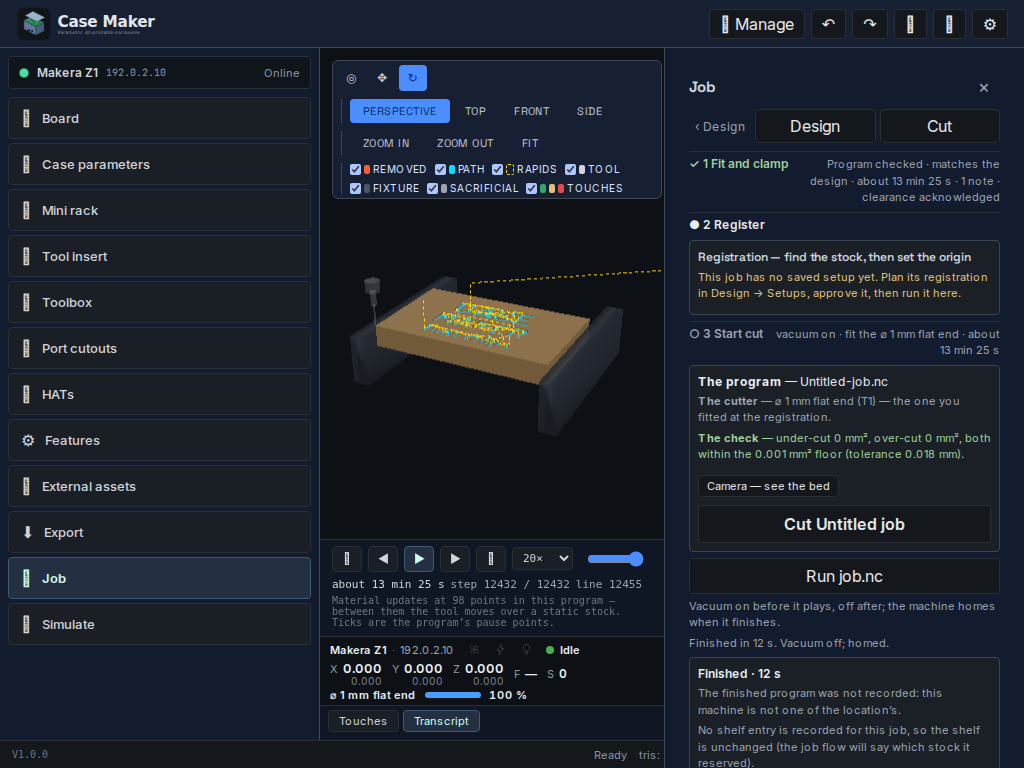
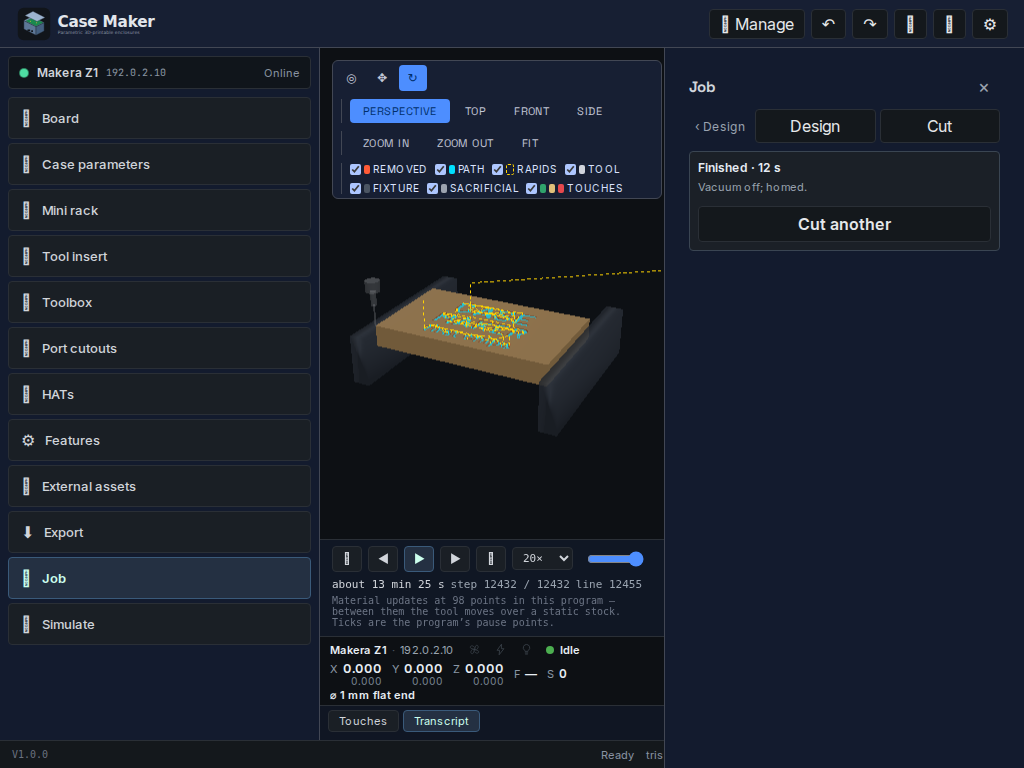
feat(cut): a finished run is the Done card, and the strip reads the machine (#819)
Seen in #816's done.png and filed as the Cut side of #791. After a program finished:

- The strip kept drawing the finished program's `P:100` bar (with its Stop while the last line
  still read Run) under a card that said Finished. An idle machine at 100 % now shows neither:
  the bar and the remaining time are about a program IN PROGRESS, and they stay for an Idle
  below 100 % (the 3–4 s `Idle` at `M05`). The spec waits for the machine's own next answer
  (Idle) before reading the strip.
- Step 3 still offered Cut and Run beside the card, and step 2 its "no saved setup" note. A run
  that ENDED (finished or stopped) now owns the Cut screen: the steps fold away and the card is
  the only thing there. A refused run (nothing was cut) keeps the steps — its card says why and
  the press must stay. The machine holds ONE entry, so a run whose context names ANOTHER job
  does not take this job's screen.
- The card is one line plus one action: its title (what happened and how long) and
  `describeEndLine`'s machine end state ("Vacuum off; homed."), never the run end's bookkeeping
  (the finished-program record, the shelf, the cutter runtime). The offcut question still
  appears only when one is offered, and Start/vacuum disappear once the entry has ended (a new
  upload resets it, so they return for the next program).

runStates.spec asserts the finished screen: strip Idle, no Stop, no bar, no Cut/Run button, the
[…]

diff --git a/casemaker-app/src/components/panels/EngraveMachineRun.tsx b/casemaker-app/src/components/panels/EngraveMachineRun.tsx
@@ -20,7 +20,7 @@
 
 import { useEffect, useRef, useState, type CSSProperties, type JSX } from 'react';
 import { attachConsole } from '@/platform/machineConsole';
-import { describeRun, programOwnsVacuum, runSettings } from '@/platform/machineRun';
+import { describeEndLine, programOwnsVacuum, runSettings } from '@/platform/machineRun';
 import { machineKey, useMachineRunStore } from '@/store/machineRunStore';
 import { runKey, useRunConfirmStore } from '@/store/runConfirmStore';
 import { useShopDefaultsStore } from '@/store/shopDefaultsStore';
@@ -147,7 +147,10 @@ export function EngraveMachineRun({ target, onProgramLine, controlled = false }:
                   : 'This program runs without the vacuum; the machine homes when it finishes.';
   return (
     <div data-testid="engrave-run" data-file={entry.filename}>
-      {!controlled && (
+      {/* #819 — once a run has ENDED there is nothing left to start from here: the card's action is
+          the next step, and a second Start beside it would be a second primary. A fresh upload
+          resets the entry (end null), so the button returns for the next program. */}
+      {!controlled && entry.end === null && (
         <button
           type="button"
           data-testid="engrave-run-start"
@@ -161,7 +164,7 @@ export function EngraveMachineRun({ target, onProgramLine, controlled = false }:
           {running ? 'Running…' : `Run ${entry.filename}`}
         </button>
       )}
-      {!controlled && (
+      {!controlled && entry.end === null && (
         <p style={MUTED} data-testid="engrave-run-vacuum">
           {vacuumLine}
         </p>
@@ -218,11 +221,6 @@ export function EngraveMachineRun({ target, onProgramLine, controlled = false }:
         </>
       )}
 
-      {outcome !== null && !running && (
-        <p style={MUTED} data-testid="engrave-run-outcome" data-state={outcome.kind}>
-          {describeRun(outcome)}
-        </p>
-      )}
       {!running && outcome?.kind === 'aborted' && outcome.stop.kind === 'stopped' && (
         <button type="button" data-testid="engrave-run-home" onClick={() => void home()}>
           Home ($H)
@@ -244,9 +242,11 @@ export function EngraveMachineRun({ target, onProgramLine, controlled = false }:
           </button>
         </div>
       )}
-      {/* #414 / #806 — THE DONE CARD. One card when the run ends: what happened and how long
-          ("Finished · 2 min 14 s"), the end's own lines (the finished-program record, the shelf,
-          the runtime), the offcut question only when there is one, and the ONE primary action. */}
+      {/* #414 / #806 / #819 — THE DONE CARD. One card when the run ends: what happened and how
+          long ("Finished · 2 min 14 s"), ONE line for the machine's end state, the offcut
+          question only when there is one, and the ONE primary action. The run end's bookkeeping
+          (the finished-program record, the shelf, the cutter runtime) stays in the records, not
+          in this card. */}
       {!running && entry.end !== null && (
         <div data-testid="engrave-run-end" data-kind={entry.end.kind} style={BOX}>
           <p
@@ -256,11 +256,12 @@ export function EngraveMachineRun({ target, onProgramLine, controlled = false }:
             {entry.end.kind === 'finished' ? 'Finished' : entry.end.kind === 'stopped' ? 'Stopped' : 'Nothing was cut'}
             {entry.end.kind === 'finished' && elapsedS !== null ? ` · ${formatDuration(elapsedS)}` : ''}
           </p>
-          {entry.end.lines.map((l, i) => (
-            <p key={i} style={MUTED}>
-              {l}
+          {/* #819 — ONE LINE: the machine's end state, never the run end's bookkeeping. */}
+          {outcome !== null && (
+            <p style={MUTED} data-testid="engrave-run-outcome" data-state={outcome.kind}>
+              {describeEndLine(outcome)}
             </p>
-          ))}
+          )}
           {entry.end.offcut?.state === 'asked' && (
             <div data-testid="engrave-run-offcut">
               <p style={MUTED}>{entry.end.offcut.text}</p>

diff --git a/casemaker-app/tests/unit/cutSurface.spec.tsx b/casemaker-app/tests/unit/cutSurface.spec.tsx
@@ -26,7 +26,7 @@ import { frozenReleaseSources } from '@/engine/cnc/engrave/release';
 import type { VerifyReport } from '@/engine/cnc/verify';
 import type { EngraveGenerated, EngraveProgram } from '@/workers/sim/engraveGenerate';
 import { ROTARY_UNMEASURED_REFUSAL } from '@/store/engraveRunGate';
-import { resetMachineRunStore } from '@/store/machineRunStore';
+import { machineKey, resetMachineRunStore, useMachineRunStore } from '@/store/machineRunStore';
 import { resetEngraveReleaseStore, useEngraveReleaseStore } from '@/store/engraveReleaseStore';
 import { resetEngravePackageStore, useEngravePackageStore } from '@/store/engravePackageStore';
 import { resetEngraveRegistrationStore, useEngraveRegistrationStore } from '@/store/engraveRegistrationStore';
@@ -1103,5 +1103,48 @@ describe('#656 from the cutter prompt to the cut', () => {
     expect(screen.queryByTestId('engrave-cut-confirm')).toBeNull();
     expect((screen.getByTestId('engrave-cut-expert') as HTMLDetailsElement).open).toBe(true);
     expect(screen.getByTestId('engrave-cut-run')).toBeTruthy();
+  });
+});
+
+// #819 — THE ENDED RUN OWNS THE SCREEN, AND ONLY WHEN IT IS THIS JOB'S.
+describe('#819 the finished screen', () => {
+  it('a finished run gives the Cut screen to its Done card — one line and one action — and a foreign run does not', () => {
+    const job = plannedJob();
+    const pkg = frozen(job, [P1]);
+    const ended = (jobId: string | undefined) => ({
+      running: false,
+      filename: 'job.nc',
+      programHash: P1.programHash,
+      progress: null,
+      lines: [],
+      outcome: { kind: 'finished', last: { line: 10, percent: 100, elapsedS: 12 }, homed: true, vacuumOff: true },
+      stopAsked: false,
+      paused: false,
+      toolWaiting: null,
+      context: jobId === undefined ? { nc: NC1 } : { nc: NC1, jobId },
+      end: { kind: 'finished', lines: ['bookkeeping the card must not draw'], offcut: null, stockQuestion: null },
+      pendingStock: null,
+    });
+
+    // This job's run: the steps give way to the card and its one action.
+    useMachineRunStore.setState({ runs: { [machineKey(TARGET)]: ended(job.id) } as never });
+    draw({ job, report: reportOf(), pkg, generated: generated([P1]), canDrive: true });
+    expect(screen.queryByTestId('engrave-cut-step-1')).toBeNull();
+    expect(screen.queryByTestId('engrave-cut-go')).toBeNull();
+    expect(screen.getByTestId('engrave-run-end').dataset.kind).toBe('finished');
+    expect(screen.getByTestId('engrave-run-done-title').textContent).toMatch(/^Finished · /);
+    expect(screen.getByTestId('engrave-run-outcome').textContent).toBe('Vacuum off; homed.');
+    expect(screen.queryByText('bookkeeping the card must not draw')).toBeNull();
+    expect(screen.queryByTestId('engrave-run-start')).toBeNull();
+    expect(screen.getByTestId('engrave-run-another')).toBeTruthy();
+
+    // Another job's run on the same machine: this job's steps stay — with the press step 3 owns —
+    // so the other job's end cannot take this screen. (The machine's own run panel still draws that
+    // entry inside step 3, as it always has: the entry belongs to the machine, not to the job.)
+    cleanup();
+    useMachineRunStore.setState({ runs: { [machineKey(TARGET)]: ended('another-job') } as never });
+    draw({ job, report: reportOf(), pkg, generated: generated([P1]), canDrive: true });
+    expect(screen.getByTestId('engrave-cut-step-1')).toBeTruthy();
+    expect(screen.getByTestId('engrave-cut-go')).toBeTruthy();
   });
 });

diff --git a/casemaker-app/src/components/panels/EngraveCutSurface.tsx b/casemaker-app/src/components/panels/EngraveCutSurface.tsx
@@ -54,7 +54,7 @@ import { jobTool, toSetup } from '@/engine/cnc/engrave/jobSetup';
 import { flatEndMill } from '@/engine/cnc/tool';
 import { useSettingsStore } from '@/store/settingsStore';
 import { finishedProgramsFor, useLocationStore } from '@/store/locationStore';
-import type { RunContext } from '@/store/machineRunStore';
+import { machineKey, useMachineRunStore, type RunContext } from '@/store/machineRunStore';
 import { useEngravePackageStore } from '@/store/engravePackageStore';
 import { useEngraveRegistrationStore, useFirstRegistration, useSurfaceSpread } from '@/store/engraveRegistrationStore';
 import { useEngraveRunStore } from '@/store/engraveRunStore';
@@ -288,6 +288,22 @@ export function EngraveCutSurface({
    * rather than pretend a fixed clearance checked a top nobody measured.
    */
   const firstRegistration = useFirstRegistration(job.id, target);
+  // #819 — THE RUN'S END IS THE SCREEN. When this machine's run has ended (finished or stopped),
+  // the three steps were about getting a program onto the machine, and that is done: the card
+  // owns the state, and the steps' two run buttons and the register card fold away with them.
+  // A refused run (`nothing` was cut) keeps the steps — its card says why, and the operator needs
+  // the press to try again.
+  const machineRun = useMachineRunStore((s) => (target === null ? null : s.runs[machineKey(target)] ?? null));
+  // The machine holds ONE entry, so a run that belongs to ANOTHER job (its context names that job)
+  // must not take this job's screen: job B's Cut would otherwise open on job A's Done card. An entry
+  // with no job id was prepared outside the job flow (an upload with no job, the e2e seam), and has
+  // no other job to belong to.
+  const runOver =
+    machineRun !== null &&
+    !machineRun.running &&
+    machineRun.end !== null &&
+    machineRun.end.kind !== 'nothing' &&
+    (machineRun.context?.jobId === undefined || machineRun.context.jobId === job.id);
   // #689 — the clearance acknowledgement lives in step 1 now, not under Generate. It is the run
   // gate's own flag; the warning codes that need it come from the Generate (re-post included) and
   // the sweep, so both are subscribed to and the step re-renders when they arrive.
@@ -742,6 +758,15 @@ export function EngraveCutSurface({
       onDone: () => void useLocationStore.getState().refresh(),
     });
   };
+
+  // #819 — the ended run's screen: the Done card and its one action, nothing else.
+  if (runOver && target !== null) {
+    return (
+      <div data-testid="engrave-cut-surface">
+        <EngraveMachineRun target={target} onProgramLine={onProgramLine} />
+      </div>
+    );
+  }
 
   return (
     <div data-testid="engrave-cut-surface">

diff --git a/casemaker-app/tests/e2e/runStates.spec.ts b/casemaker-app/tests/e2e/runStates.spec.ts
@@ -2,7 +2,9 @@
 // `/api/v1/machine/tcp/*` in the page (tests/e2e/fixtures/fakeConsole.ts), so the run panel plays a
 // real program and reaches running, paused and finished. REAL screenshots are committed under
 // `docs/bench/img/2026-10-31-run-states/` — the record #801 (Pause/Resume/Stop and the one
-// caption, no panel progress line) and #806 (the Done card) asked for.
+// caption, no panel progress line), #806 (the Done card) and #819 (THE FINISHED SCREEN: the strip
+// reads the machine, the steps and both run buttons are gone, and the card is one line plus one
+// action) asked for.
 //
 // The program is prepared through the test surface (`machineRunPrepare`, the store seam the
 // upload's last step uses) rather than uploaded: the fake answers the console, and the upload's
@@ -125,6 +127,21 @@ test('#801/#806 — the run panel running, paused, and its Done card, on a fake 
   const done = runPanel.getByTestId('engrave-run-end');
   await expect(done).toHaveAttribute('data-kind', 'finished', { timeout: 60_000 });
   await expect(runPanel.getByTestId('engrave-run-done-title')).toContainText(/^Finished · /);
+
+  // #819 — THE FINISHED SCREEN. The strip speaks for the MACHINE: it settles on the fake's own last
+  // answer (Idle), with no Stop and no finished program's bar. Both run buttons and the three steps
+  // are gone, so step 2's "no saved setup" cannot sit under a Done card. The card is its title, ONE
+  // line (the machine's end state) and ONE action.
+  const stripState = page.getByTestId('machine-status-state');
+  await expect.poll(() => stripState.getAttribute('data-state'), { timeout: 30_000 }).toBe('Idle');
+  await expect(page.getByTestId('machine-status-stop')).toHaveCount(0);
+  await expect(page.getByTestId('machine-status-progress')).toHaveCount(0);
+  await expect(page.getByTestId('engrave-cut-go')).toHaveCount(0);
+  await expect(page.getByTestId('engrave-run-start')).toHaveCount(0);
+  await expect(page.getByTestId('engrave-cut-step-1')).toHaveCount(0);
+  await expect(runPanel.getByTestId('engrave-run-outcome')).toHaveText('Vacuum off; homed.');
+  await expect(done.locator('p')).toHaveCount(2); // the title and the one line
+  await expect(done.locator('button')).toHaveCount(1); // Cut another
   await expect(runPanel.getByTestId('engrave-run-another')).toBeVisible();
   await shoot(page, 'done.png');
 

diff --git a/casemaker-app/tests/unit/engraveMachineRun.spec.tsx b/casemaker-app/tests/unit/engraveMachineRun.spec.tsx
@@ -158,11 +158,19 @@ describe('#423 the run panel, in the real tree', () => {
     // every finish; it is the file (or its absence) that switches the vacuum.
     expect(sent).toEqual(['?', 'play /sd/gcodes/job.nc', '?', '$H']);
     expect(screen.queryByTestId('engrave-run-home')).toBeNull();
-    // #806 — THE DONE CARD: the run and its clock in one title, the end's own lines under it,
-    // the offcut question only when there is one, and ONE primary action.
+    // #806 / #819 — THE DONE CARD: the run and its clock in one title, ONE line for the machine's
+    // end state, the offcut question only when there is one, and ONE primary action. The run end's
+    // bookkeeping and a second Start are not in it.
     expect(screen.getByTestId('engrave-run-end').dataset.kind).toBe('finished');
     expect(screen.getByTestId('engrave-run-done-title').textContent).toMatch(/^Finished( · .+)?$/);
     expect(screen.queryByTestId('engrave-run-offcut')).toBeNull();
+    const card = screen.getByTestId('engrave-run-end');
+    expect(card.querySelectorAll('p')).toHaveLength(2); // the title and the one line
+    expect(card.querySelectorAll('button')).toHaveLength(1); // Cut another
+    expect(screen.getByTestId('engrave-run-outcome').textContent).toContain('vacuum');
+    expect(screen.getByTestId('engrave-run-outcome').textContent).toMatch(/homed\.$/);
+    expect(screen.queryByTestId('engrave-run-start')).toBeNull();
+    expect(screen.queryByTestId('engrave-run-vacuum')).toBeNull();
     fireEvent.click(screen.getByTestId('engrave-run-another'));
     expect(useCncModeStore.getState().mode).toBe('design');
     // #797 — the at-machine statement is Cut step 1's ONE statement now; this panel asks nothing

diff --git a/casemaker-app/tests/unit/machineStatusStrip.spec.tsx b/casemaker-app/tests/unit/machineStatusStrip.spec.tsx
@@ -364,6 +364,23 @@ describe('#647 the DRO — vacuum and progress', () => {
     render(<MachineStatusStrip />);
     expect(screen.queryByTestId('machine-status-progress')).toBeNull();
   });
+
+  // #819 — a finished program leaves P:100 on the machine's last line; the strip must not keep
+  // drawing the bar and its Stop under a Done card that says Finished.
+  it('drops the bar and the Stop when an idle machine still carries a finished P:100', () => {
+    remember('<Idle|MPos:0,0,0|WPos:0,0,0|P:2540,100,756>');
+    render(<MachineStatusStrip />);
+    expect(screen.getByTestId('machine-status-state').getAttribute('data-state')).toBe('Idle');
+    expect(screen.queryByTestId('machine-status-progress')).toBeNull();
+    expect(screen.queryByTestId('machine-status-stop')).toBeNull();
+  });
+
+  it('offers the bar and the Stop while the program runs', () => {
+    remember('<Run|MPos:-10,-10,-3|WPos:0,0,0|P:12,40,75>');
+    render(<MachineStatusStrip />);
+    expect(screen.getByTestId('machine-status-progress')).toBeTruthy();
+    expect(screen.getByTestId('machine-status-stop')).toBeTruthy();
+  });
 });
 
 describe('#647 the DRO — the layout contract', () => {

diff --git a/casemaker-app/src/platform/machineRun.ts b/casemaker-app/src/platform/machineRun.ts
@@ -540,6 +540,23 @@ export function describeRun(o: RunOutcome): string {
   }
 }
 
+/**
+ * #819 — THE DONE CARD'S ONE LINE.
+ *
+ * The card's title already states what happened and how long ("Finished · 12 s"), so a finish's
+ * line carries only the machine's END STATE — the vacuum and home sentence `describeRun` appends
+ * to it. Every other outcome is one sentence already (there is no clock to repeat), so the card
+ * shows it whole. The bookkeeping the run end records (the finished-program record, the shelf,
+ * the cutter runtime) is NOT drawn here: #806's card is what happened, its clock and the one next
+ * action, and those facts live in the run's own records.
+ */
+export function describeEndLine(o: RunOutcome): string {
+  if (o.kind === 'finished') {
+    return `${finishedVacuum(o)}${o.homed ? 'homed' : 'the home ($H) was not confirmed — home it'}.`;
+  }
+  return describeRun(o);
+}
+
 /** The run tunables from the shop's defaults (`run.*`) — the labelled fallbacks only with no service. */
 export function runSettings(defaults: ShopDefaults | null): RunSettings {
   return {

diff --git a/casemaker-app/src/components/viewport/MachineStatusStrip.tsx b/casemaker-app/src/components/viewport/MachineStatusStrip.tsx
@@ -402,7 +402,12 @@ export function MachineStatusStrip(): JSX.Element | null {
   // the firmware): shown raw, and only on a machine that actually sends it. The Z1 has no ATC.
   const atcState = live ? line?.atcState ?? null : null;
 
-  const percent = progress?.percent ?? null;
+  // #819 — a finished program leaves its last `P:` on the machine's line (100 %, state Idle), and
+  // the cell kept drawing that bar and its "0 s left" under a Done card that already said Finished.
+  // The bar and the remaining time are about a program IN PROGRESS, so an idle machine at 100 %
+  // shows neither. An Idle below 100 % is a program paused mid-job (the 3–4 s `Idle` at `M05`),
+  // and its bar stays. The Stop is already the strip's while the machine is not idle.
+  const percent = state === 'Idle' && (progress?.percent ?? 0) >= 100 ? null : progress?.percent ?? null;
   const remaining = remainingSeconds(progress);
 
   return (
